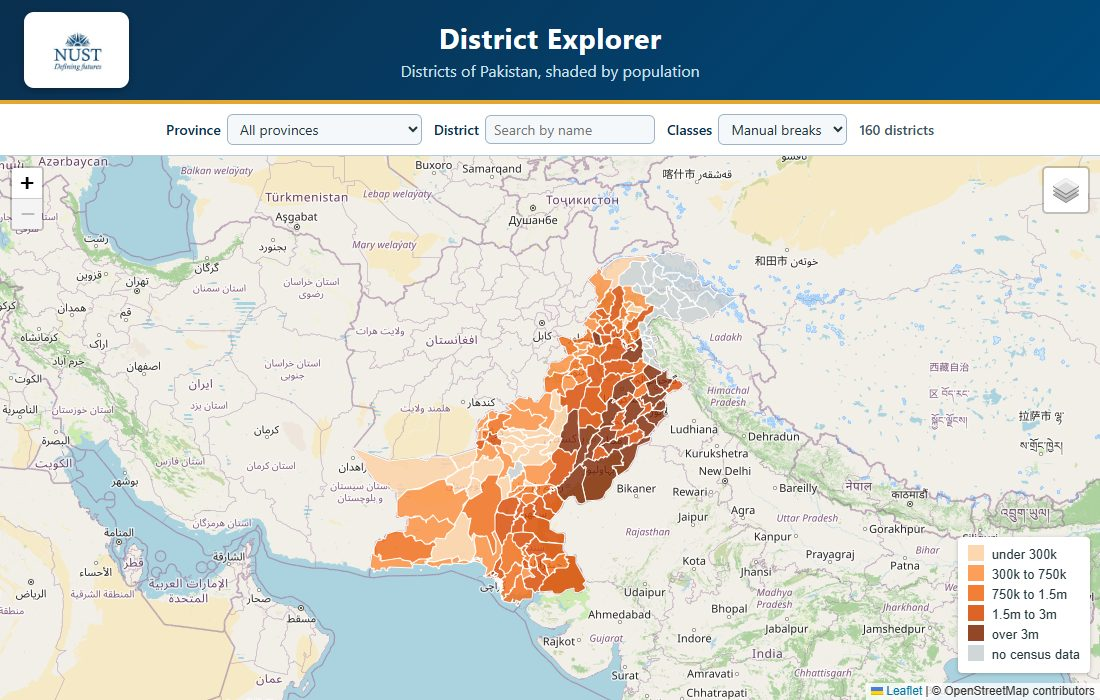
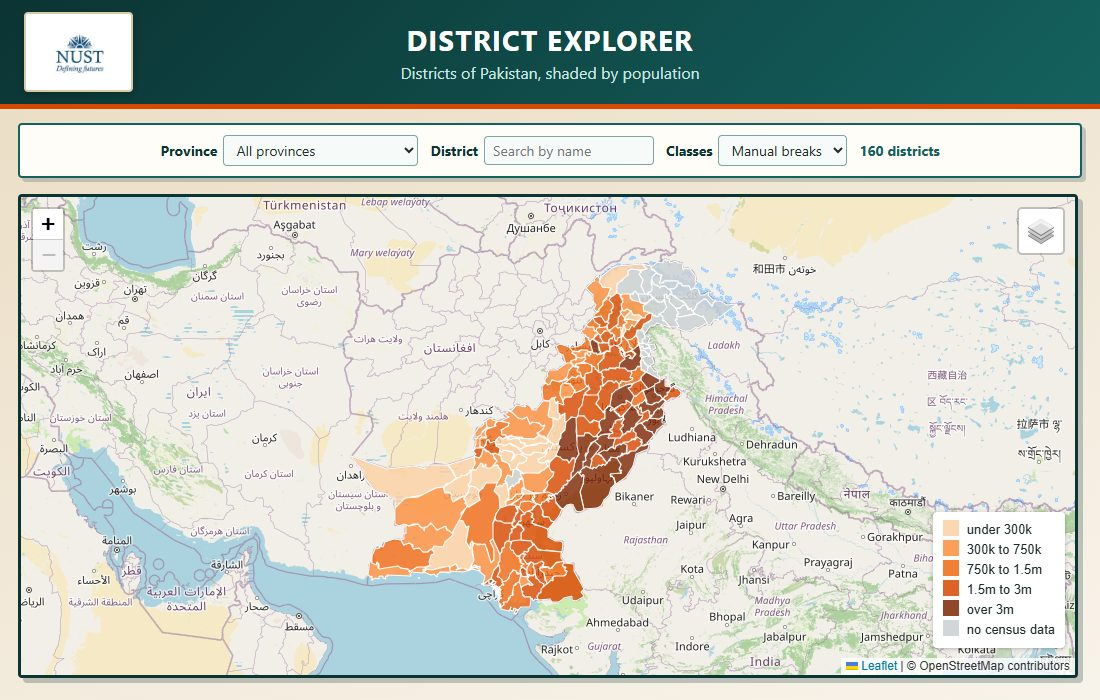
Landing page: per-lab accent colours and the new Lab 02 thumbnail
Each lab card takes the accent colour of its own page (blue for Lab 01, teal for Lab 02) on its top edge and badge, with lighter tones in dark mode. The Lab 02 screenshot is retaken to show the new look.

diff --git a/assets/site.css b/assets/site.css
@@ -125,6 +125,11 @@ h2 { margin: 0 0 4px; font-size: 24px; }
 }
 .card:hover { transform: translateY(-3px); box-shadow: var(--shadow-hover); }
 
+/* each lab card takes the accent colour of its own page */
+.card.lab1 { --accent: #00497a; }
+.card.lab2 { --accent: #14615e; }
+.card.lab1, .card.lab2 { border-top: 4px solid var(--accent); }
+
 .thumb { display: block; border-bottom: 1px solid var(--line); background: var(--chip); }
 .thumb img { display: block; width: 100%; height: auto; aspect-ratio: 11 / 7; object-fit: cover; }
 
@@ -140,7 +145,7 @@ h2 { margin: 0 0 4px; font-size: 24px; }
 .badge {
    padding: 2px 10px;
    border-radius: 999px;
-   background: var(--navy);
+   background: var(--accent, var(--navy));
    color: #fff;
    font-size: 12px;
    font-weight: 700;
@@ -219,5 +224,7 @@ footer a { color: #fff; }
 }
 
 @media (prefers-color-scheme: dark) {
-   .badge { background: var(--gold); color: var(--navy); }
+   .card.lab1 { --accent: #4aa3dd; }
+   .card.lab2 { --accent: #3fb3ab; }
+   .badge { color: #06222b; }
 }

diff --git a/index.html b/index.html
@@ -40,7 +40,7 @@
 
    <section class="wrap cards" aria-labelledby="labs-title">
 
-      <article class="card">
+      <article class="card lab1">
          <a class="thumb" href="lab-1-First-Web-Map/" tabindex="-1" aria-hidden="true">
             <img src="assets/lab-1-map.jpg" width="1100" height="700" loading="lazy" alt="">
          </a>
@@ -62,7 +62,7 @@
          </div>
       </article>
 
-      <article class="card">
+      <article class="card lab2">
          <a class="thumb" href="lab-2-district-explorer/" tabindex="-1" aria-hidden="true">
             <img src="assets/lab-2-map.jpg" width="1100" height="700" loading="lazy" alt="">
          </a>
